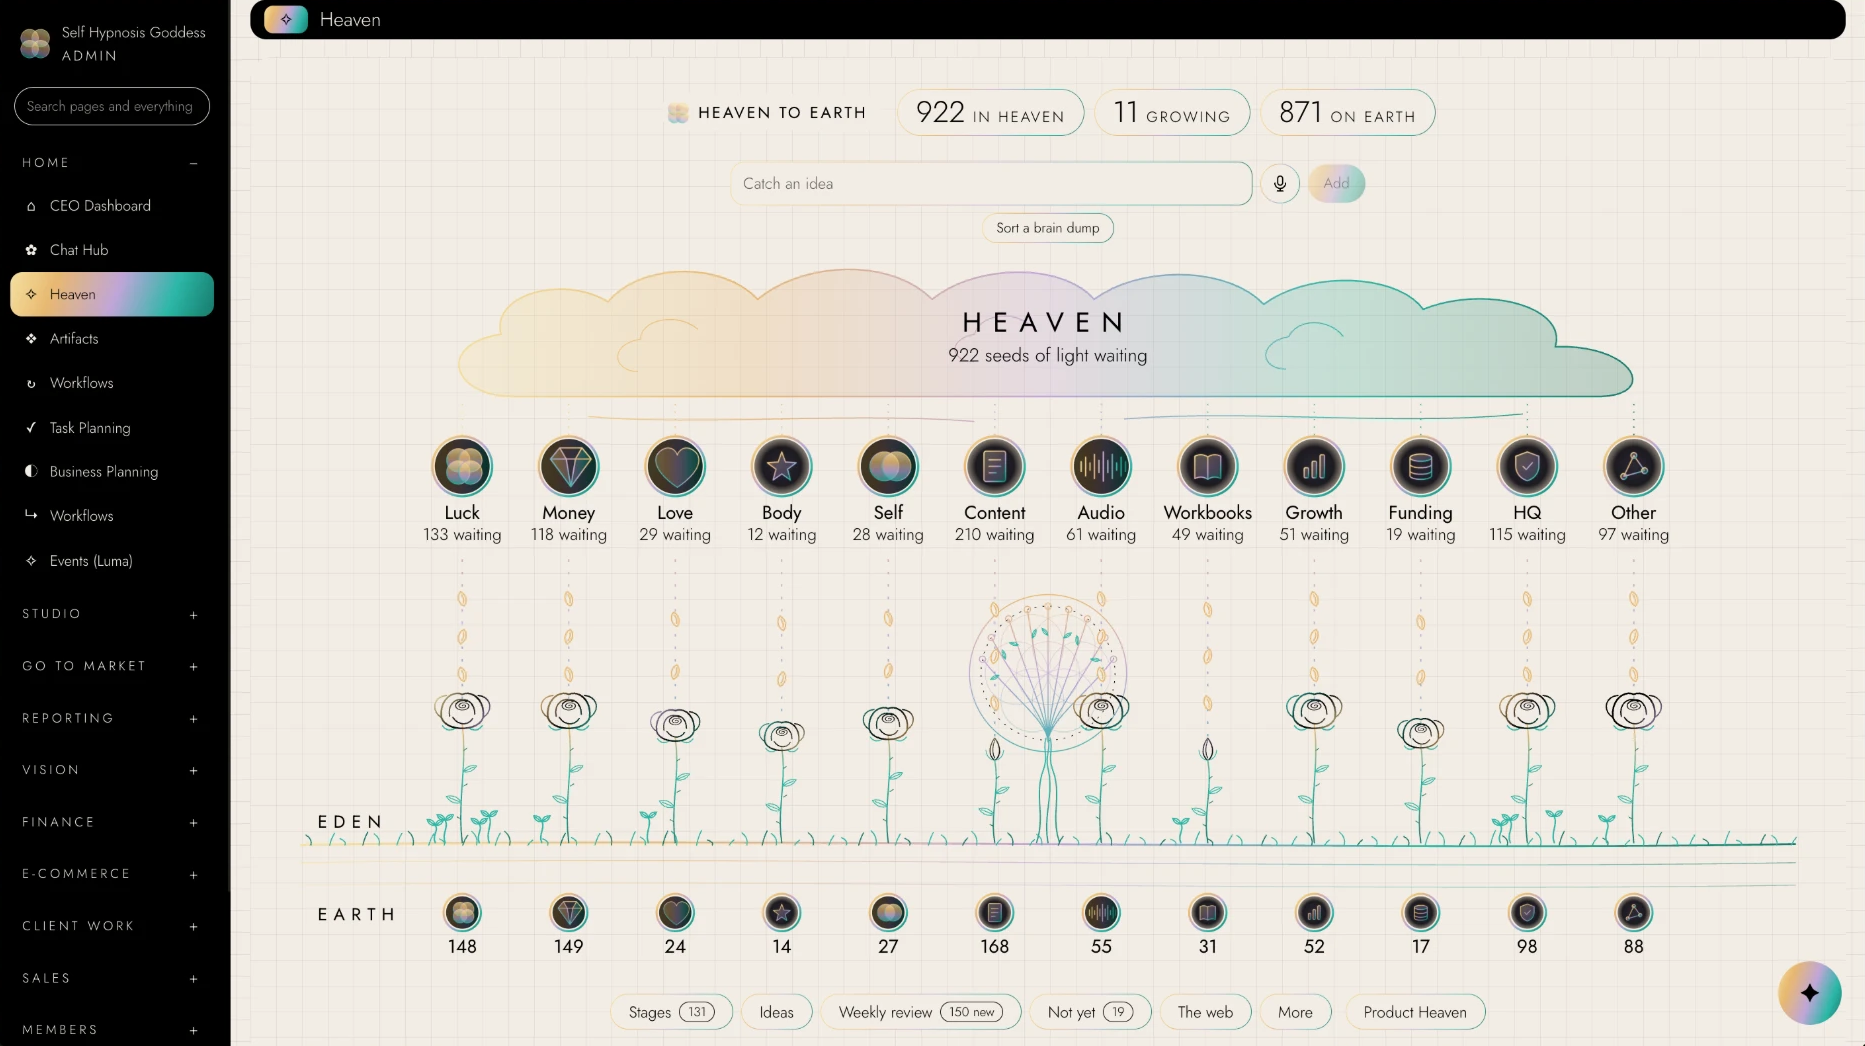
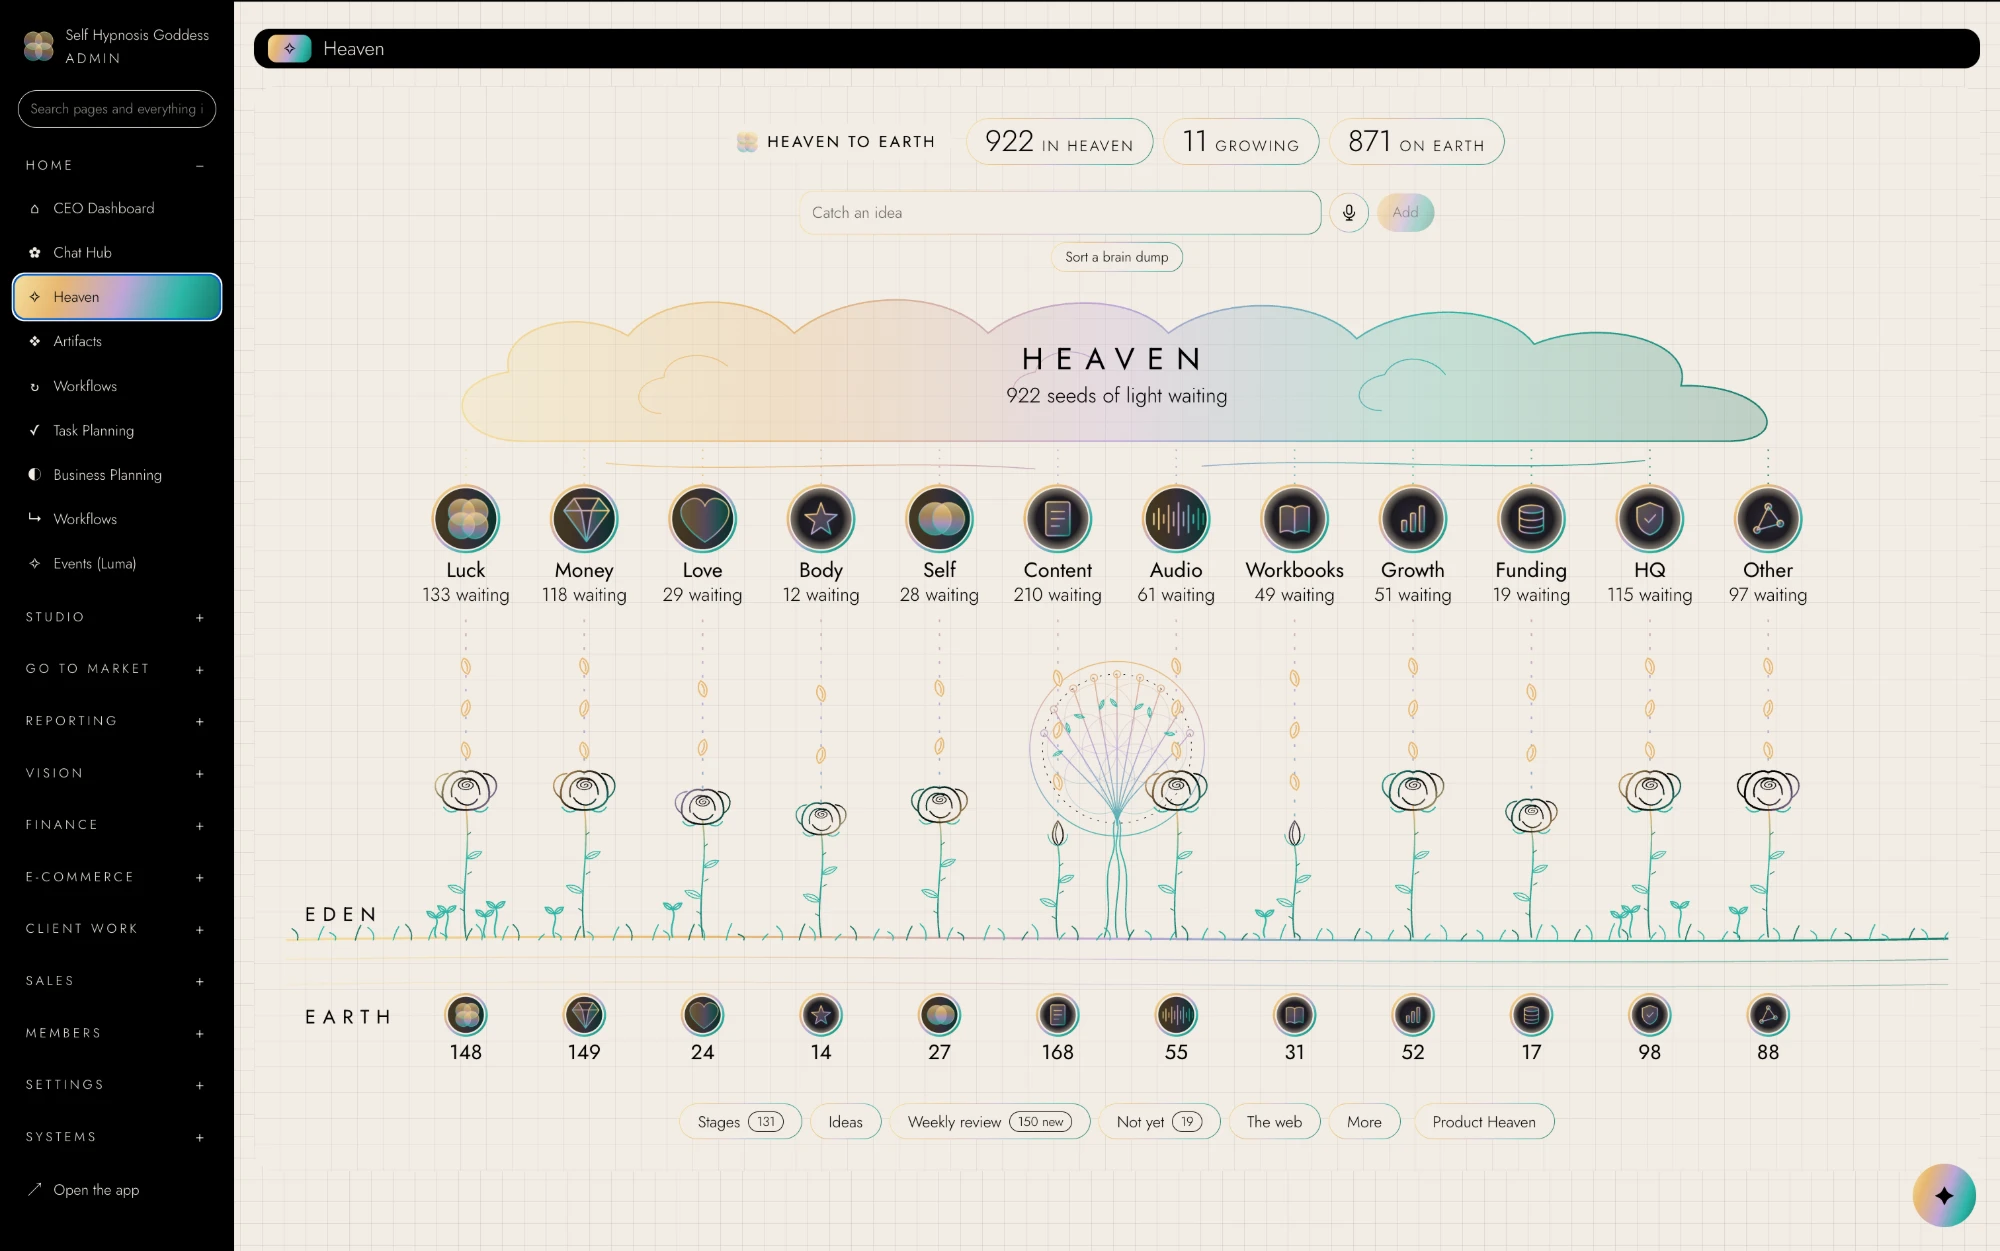
Bestie: Reshma's latest full screenshots, full width one after another, organic strategy workflow, dashboard on the front page
Claude-Session: https://claude.ai/code/session_015XEvohj3dqEbMTJagXzCa8

diff --git a/skills/bestie/README.md b/skills/bestie/README.md
@@ -8,12 +8,14 @@ Built for solo founders, but it works for any business or any busy life: a coach
 
 After setup, Bestie gifts you two boards in the same look as mine: your CEO Dashboard and your Heaven. You open them every day instead of scrolling a chat.
 
-**Your CEO Dashboard** (example) and **your Heaven**: every idea parked by theme, growing from Heaven to Eden to Earth when it ships
+**Your CEO Dashboard (example)**
 
-<p>
-<a href="screenshots/free-dashboard.png"><img src="screenshots/free-dashboard.png" width="49%" alt="Your free CEO Dashboard"></a>
-<a href="screenshots/hq-heaven.png"><img src="screenshots/hq-heaven.png" width="49%" alt="Your Heaven"></a>
-</p>
+<a href="screenshots/free-dashboard.png"><img src="screenshots/free-dashboard.png" width="100%" alt="Your free CEO Dashboard"></a>
+
+**Your Heaven: every idea parked by theme, growing from Heaven to Eden to Earth when it ships**
+
+<a href="screenshots/hq-heaven.png"><img src="screenshots/hq-heaven.png" width="100%" alt="Your Heaven"></a>
+
 
 Click any picture to see it full size. In the free version nothing syncs by itself: Bestie updates your boards when you talk to her.
 
@@ -56,13 +58,18 @@ See [`EXAMPLE.md`](EXAMPLE.md) for a real voice note and how she sorted it.
 
 This is my real CEO Dashboard, live. It pulls from every report, bot and memory in my business, and a team of 14 AI agents works from it around the clock, with workflows that connect every step.
 
-<p>
-<a href="screenshots/hq-ceo-dashboard.png"><img src="screenshots/hq-ceo-dashboard.png" width="49%" alt="My CEO Dashboard"></a>
-<a href="screenshots/hq-workflows.png"><img src="screenshots/hq-workflows.png" width="49%" alt="My workflows"></a>
-</p>
-<p><a href="screenshots/hq-bots.png"><img src="screenshots/hq-bots.png" width="49%" alt="My bots control room"></a></p>
+**My CEO Dashboard, live**
 
-My dashboard, my workflows and my bots control room: 21 bots running the business, all in sync.
+<a href="screenshots/hq-ceo-dashboard.png"><img src="screenshots/hq-ceo-dashboard.png" width="100%" alt="My CEO Dashboard"></a>
+
+**My workflows: her journey, station by station, each with its playbooks**
+
+<a href="screenshots/hq-workflows.png"><img src="screenshots/hq-workflows.png" width="100%" alt="My workflows"></a>
+
+**One workflow opened: organic content strategy, every channel, owner and tool connected**
+
+<a href="screenshots/hq-organic-strategy.png"><img src="screenshots/hq-organic-strategy.png" width="100%" alt="My organic content strategy workflow"></a>
+
 
 Want Bestie with your own AI team, a live dashboard and workflows that connect? Contact me, Reshma, for AI architecture and consultancy: [reshmaoracle.com/t/gh-team](https://reshmaoracle.com/t/gh-team).
 

diff --git a/README.md b/README.md
@@ -12,6 +12,10 @@ By **Reshma Oracle**, founder of Self Hypnosis Goddess.
 
 More coming.
 
+<a href="skills/bestie"><img src="skills/bestie/screenshots/hq-ceo-dashboard.png" width="100%" alt="My CEO Dashboard, run by Bestie"></a>
+
+My own CEO Dashboard, run by Bestie. [See what you get free](skills/bestie).
+
 ## How to use Bestie
 
 Bestie is built and trained on **Claude**.
